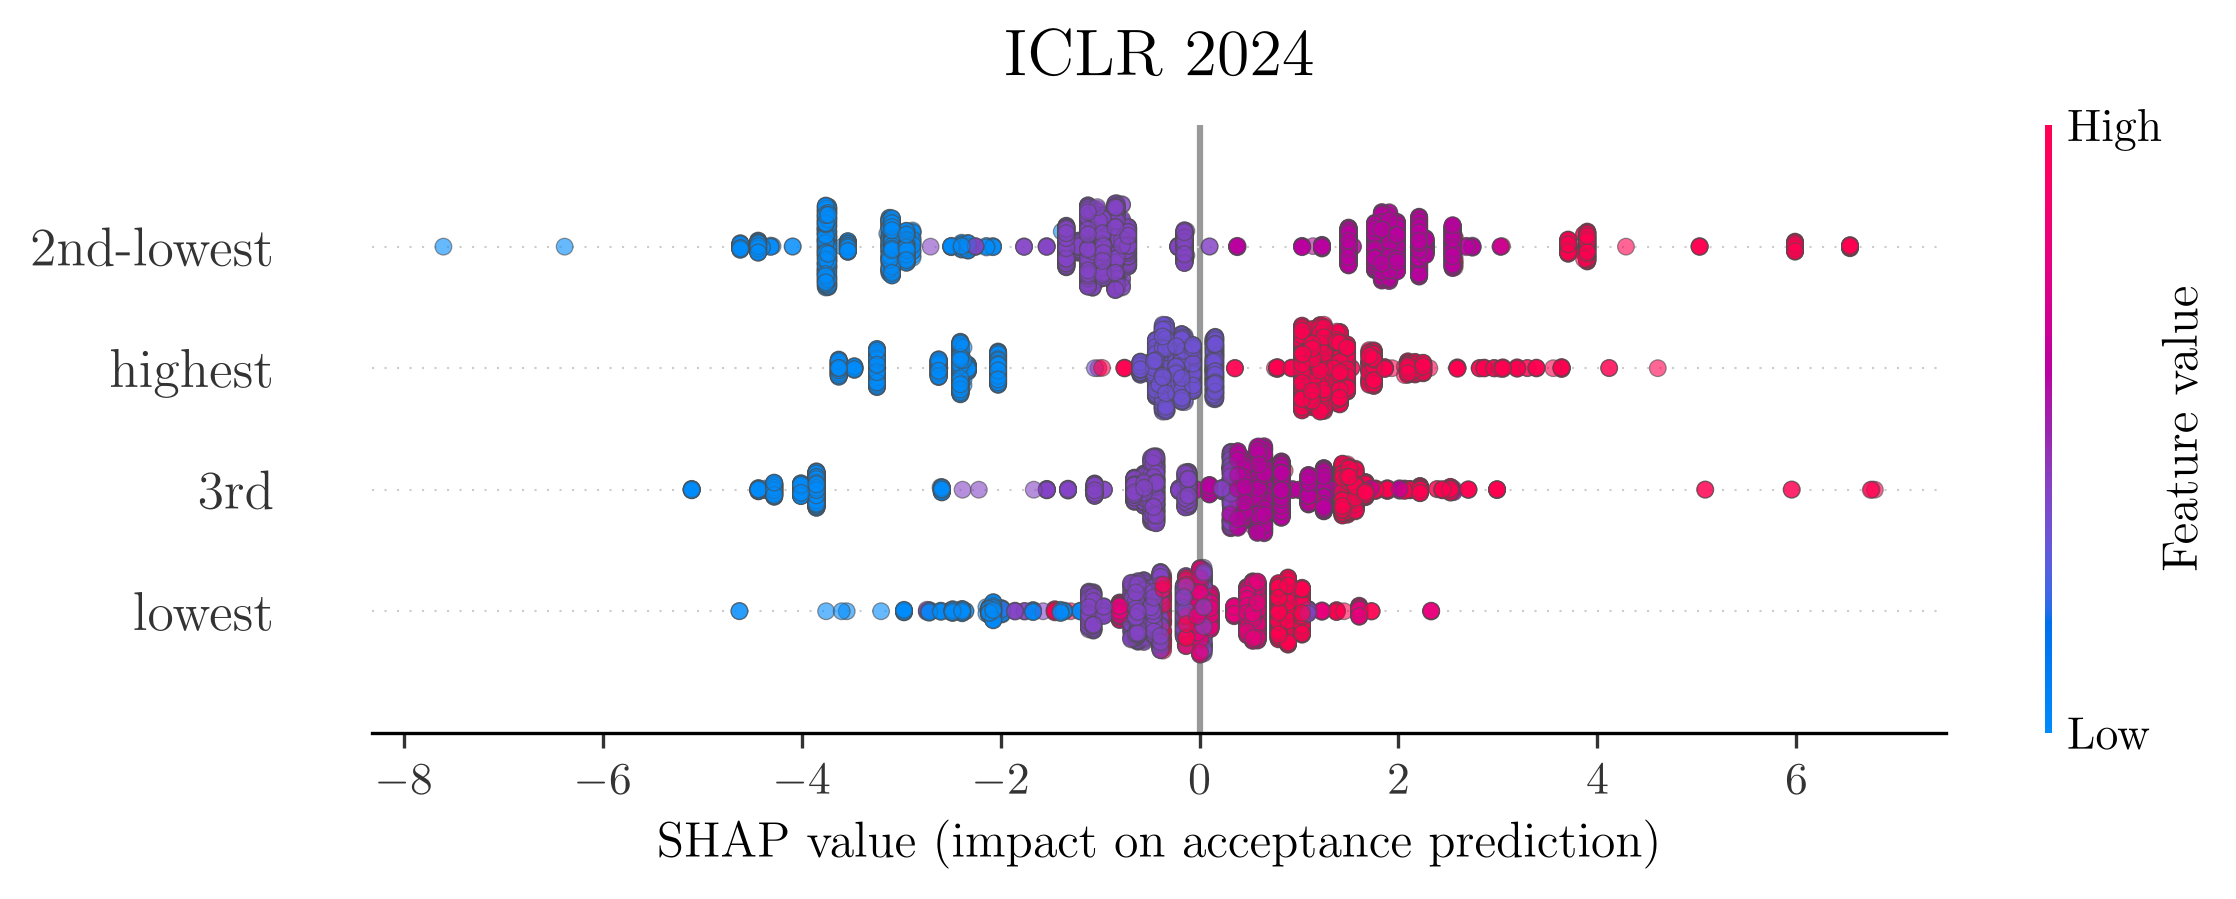
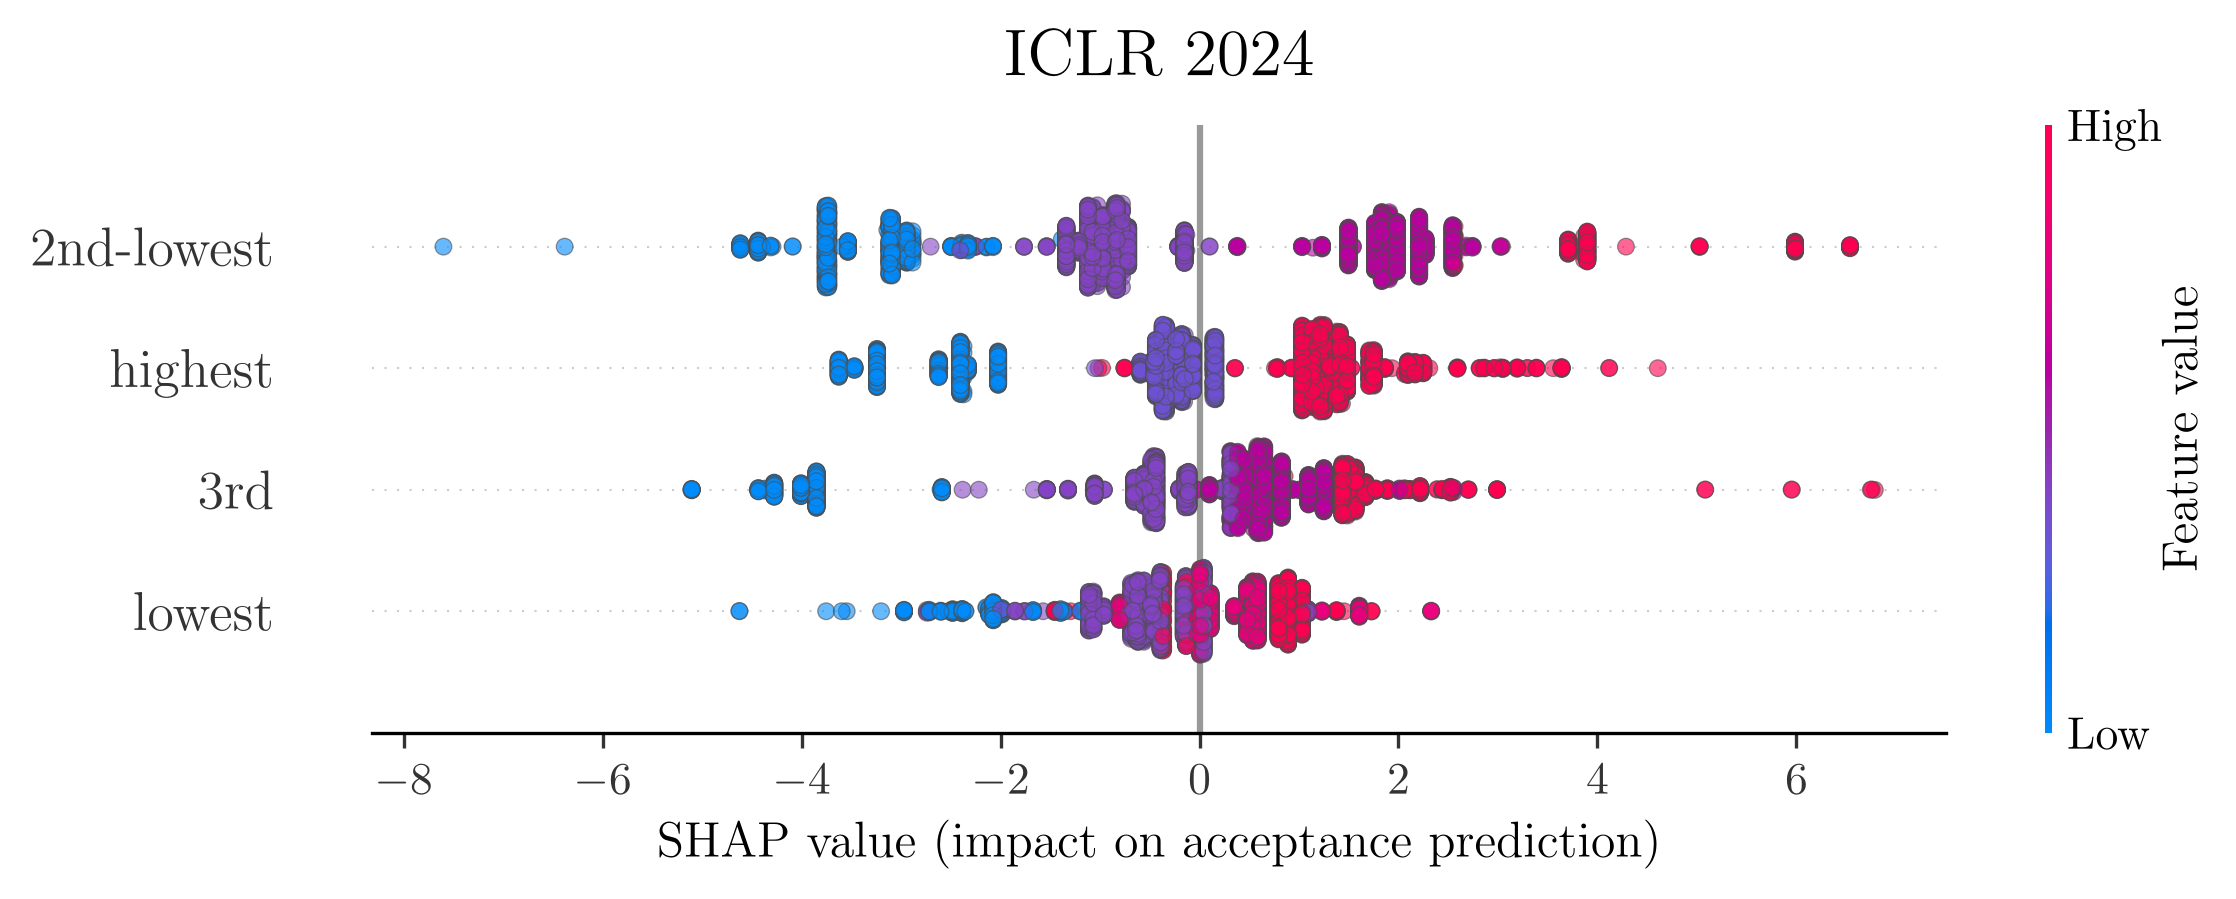
content(post): Source Serif 4 on all figures, add ROC curves, simplify ROC to 4 curves
All figures now use Source Serif 4 (blog body font) with text.usetex.
ROC plot reduced to s1, s2, mean, all-four (dropped s3/s4 clutter).
ROC inserted after the AUC comparison paragraph. Heatmap and SHAP
beeswarm re-rendered with matching font stack.

diff --git a/content/posts/your-second-worst-review/index.md b/content/posts/your-second-worst-review/index.md
@@ -35,6 +35,8 @@ The red is what you notice first. That top-left corner is papers whose two lowes
 
 Your instinct might be to point out that the mean score predicts better. It does. Logistic regression on the mean gives a cross-validated AUC of $0.94$; the second-lowest alone gives $0.89$. The mean uses all four scores, so it has more to work with. But the question is which of the four scores the prediction leans on most, not which summary statistic wins.
 
+![ROC curves for logistic regression on each individual score, the mean, and all four scores together. The second-lowest score dominates the lowest; the mean and all-four curves sit above both.](roc-curves.png)
+
 The four scores together predict acceptance at an AUC of $0.95$ in held-out folds. I added $44$ more features (soundness, presentation, contribution sub-scores, reviewer confidence, word count, question count, submission timing) and the AUC did not move. With ${\sim}3{,}700$ papers and correlated predictors, that is not proof those features carry zero signal, but it is worth noting.
 
 Within those four, a decision tree splits at the root on the second-lowest score (call it $s_{(2)}$, where $s_{(1)}$ is the min, $s_{(3)}$ the third, and $s_{(4)}$ the max), at the $5/6$ boundary. Logistic regression gives $s_{(2)}$ the largest standardized coefficient (about $2\times$ $s_{(1)}$, $3\times$ $s_{(4)}$). Permutation importance from random forest and gradient boosting agrees. Shapley values give $s_{(2)}$ a mean absolute contribution of $2.06$, compared to $1.17$ for $s_{(4)}$, $1.13$ for $s_{(3)}$, and $0.61$ for $s_{(1)}$. $s_{(2)}$ is the single most important score for $58\%$ of papers, $s_{(3)}$ for $25\%$, $s_{(4)}$ for $16\%$. The worst score, the one you are fixated on, is the most important for fewer than $2\%$. All four matter. $s_{(2)}$ is first and $s_{(1)}$ is last.
